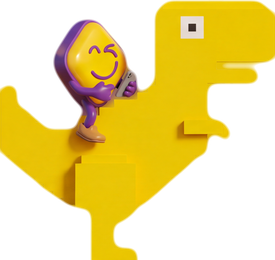
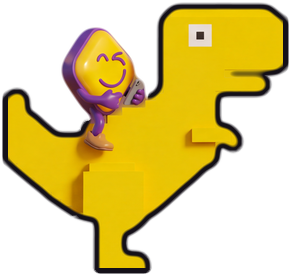
Add jump dust, dino outline, purple Cashi tuk tuk and end screen links
Sand puffs and speed lines on jump and landing, a smooth black outline
around the dino, a purple tuk tuk with Cashi painted on the side, and
end screen buttons for the app download and top up videos (Bankak,
Fawry, OCash), also added to the WhatsApp message. Images carry a
version so browsers fetch the new ones.

Changed region(s): [[0.0, 0.0, 1.0, 1.0], [0.6109, 0.4615, 0.6982, 0.5231]]

diff --git a/index.html b/index.html
@@ -27,7 +27,7 @@
   // World is 300 units tall; the screen scales to fit
   const WORLD_H = 300, MIN_W = 520, MIN_W_UPRIGHT = 360;
   const STREET_H = 236, GROUND_Y = 262, ROAD_BOTTOM = 280;
-  const DINO_H = 96, DINO_W = DINO_H * 275 / 260;
+  const DINO_H = 96, DINO_W = DINO_H * 275 / 260, DINO_PAD = 8;
   const TILE_W = STREET_H * 496 / 480;            // one block of shops
   // The street repeats every 5 blocks. Blocks 1 and 4 have a yellow Cashi Merchant tea stall,
   // and the CashiPlus store stands in the shop line where block 2 meets block 3.
@@ -38,7 +38,17 @@
   const START_SPEED = 260, ACCEL = 7;
   let maxSpeed = 640; // lower on upright phones, which see less of the road ahead
   const REVEAL_TIME = 1.3;
-  const shareText = s => `I scored ${s} on the Cashi dino game. Can you beat me? Cashi is DATA FREE for Zain users. ${location.href.split(/[?#]/)[0]}`;
+  const LINKS = {
+    app: 'https://getcashi.com/en/links',
+    bankak: 'https://youtube.com/shorts/tziwyQtkj5U',
+    fawry: 'https://youtube.com/shorts/59E-KPfbuAE',
+    ocash: 'https://youtube.com/shorts/VMH-85NfBmA'
+  };
+  const shareText = s => [
+    `I scored ${s} on the Cashi dino game. Can you beat me? Cashi is DATA FREE for Zain users. ${location.href.split(/[?#]/)[0]}`,
+    '', `Get the app: ${LINKS.app}`,
+    '', 'How to top up Cashi:', `Bankak: ${LINKS.bankak}`, `Fawry: ${LINKS.fawry}`, `OCash: ${LINKS.ocash}`
+  ].join('\n');
 
   // Older Android browsers lack rounded rectangles on canvas
   if (!CanvasRenderingContext2D.prototype.roundRect) {
@@ -54,8 +64,9 @@
   const ctx = canvas.getContext('2d');
   let scale = 1, viewW = MIN_W, offsetY = 0, dpr = 1, hudX = 14;
 
-  const img = name => { const i = new Image(); i.src = 'src/' + name; return i; };
-  const art = { dino: img('dino.png'), dinoGrey: img('dino_grey.png'), street: img('street.jpg'), merchant: img('street_merchant.jpg'), store: img('store.png') };
+  const ART_VERSION = 2; // raise when an image changes so browsers fetch the new one
+  const img = name => { const i = new Image(); i.src = 'src/' + name + '?v=' + ART_VERSION; return i; };
+  const art = { dino: img('dino.png'), dinoGrey: img('dino_grey.png'), street: img('street.jpg'), merchant: img('street_merchant.jpg'), tuktuk: img('street_tuktuk.jpg'), store: img('store.png') };
   const ready = i => i.complete && i.naturalWidth > 0;
 
   function resize() {
@@ -84,33 +95,52 @@
   const PX = 4;
 
   // ready: grey offline look. reveal: colour sweeps in. playing. over.
-  let state = 'ready', revealStart = 0, overAt = 0, shareBtn = null, plane = null, nextPlaneAt = 3;
-  let speed, distance, score, obstacles, nextGap, streetX, roadX, dino, time = 0, dust;
+  let state = 'ready', revealStart = 0, overAt = 0, buttons = [], topupOpen = false, plane = null, nextPlaneAt = 3;
+  let speed, distance, score, obstacles, nextGap, streetX, roadX, dino, time = 0, dust, puffs, jumpAt = -9;
 
   function reset(firstRun) {
     speed = START_SPEED; distance = 0; score = 0;
-    obstacles = []; nextGap = firstRun ? 760 : 420; roadX = 0; dust = [];
+    obstacles = []; nextGap = firstRun ? 760 : 420; roadX = 0; dust = []; puffs = []; jumpAt = -9; topupOpen = false;
     streetX = TILE_W * STORE_AT - viewW / 2; // CashiPlus store sits mid screen when the colour arrives
     dino = { x: 46, y: GROUND_Y - DINO_H, vy: 0, grounded: true };
   }
   reset(true);
 
-  function shareOnWhatsApp() {
-    const url = 'https://wa.me/?text=' + encodeURIComponent(shareText(score));
-    if (!window.open(url, '_blank')) location.href = url;
+  function openLink(url) {
+    const w = window.open(url, '_blank');
+    if (w) w.opener = null; else location.href = url;
   }
+  const shareOnWhatsApp = () => openLink('https://wa.me/?text=' + encodeURIComponent(shareText(score)));
+  const buttonAt = (wx, wy) => buttons.find(b => wx >= b.x && wx <= b.x + b.w && wy >= b.y && wy <= b.y + b.h);
 
   function tap(wx, wy) {
     if (state === 'ready') { state = 'reveal'; revealStart = time; nextPlaneAt = time + REVEAL_TIME + 1.5; return; }
     if (state === 'over') {
       if (time - overAt < 0.5) return; // a late jump tap should not restart straight away
-      const b = shareBtn;
-      if (b && wx !== undefined && wx >= b.x && wx <= b.x + b.w && wy >= b.y && wy <= b.y + b.h) { shareOnWhatsApp(); return; }
+      if (wx !== undefined && buttonAt(wx, wy)) return; // buttons act on click, so links open in a new tab on phones
+      if (topupOpen) { topupOpen = false; return; }
       reset(false); state = 'playing'; return;
     }
-    if (state === 'playing' && dino.grounded) { dino.vy = -JUMP_V; dino.grounded = false; }
+    if (state === 'playing' && dino.grounded) { dino.vy = -JUMP_V; dino.grounded = false; jumpAt = time; kickUp(10, 1); }
+  }
+
+  // Sand clouds behind the feet on take off (big) and landing (small)
+  function kickUp(n, power) {
+    for (let i = 0; i < n; i++) {
+      const life = 0.35 + Math.random() * 0.25 * power;
+      puffs.push({
+        x: dino.x + DINO_W * (0.15 + Math.random() * 0.3), y: GROUND_Y - 2 - Math.random() * 6,
+        vx: -(15 + Math.random() * 60) * power, vy: -(15 + Math.random() * 45) * power,
+        r: (6 + Math.random() * 6) * (0.6 + power * 0.4), life, max: life
+      });
+    }
   }
   canvas.addEventListener('pointerdown', e => { e.preventDefault(); tap(e.clientX / scale, (e.clientY - offsetY) / scale); });
+  canvas.addEventListener('click', e => {
+    if (state !== 'over' || time - overAt < 0.5) return;
+    const b = buttonAt(e.clientX / scale, (e.clientY - offsetY) / scale);
+    if (b) b.act();
+  });
   window.addEventListener('keydown', e => {
     if (e.code === 'Space' || e.code === 'ArrowUp') { e.preventDefault(); tap(); }
   });
@@ -152,7 +182,12 @@
 
     dino.vy += GRAVITY * dt;
     dino.y += dino.vy * dt;
-    if (dino.y >= GROUND_Y - DINO_H) { dino.y = GROUND_Y - DINO_H; dino.vy = 0; dino.grounded = true; }
+    if (dino.y >= GROUND_Y - DINO_H) {
+      if (!dino.grounded) kickUp(4, 0.5);
+      dino.y = GROUND_Y - DINO_H; dino.vy = 0; dino.grounded = true;
+    }
+    puffs.forEach(p => { p.x += (p.vx - speed) * dt; p.y += p.vy * dt; p.vx *= 0.94; p.vy *= 0.94; p.life -= dt; });
+    puffs = puffs.filter(p => p.life > 0);
 
     if (dino.grounded && Math.random() < 0.35) dust.push({ x: dino.x + 20, y: GROUND_Y - 4, life: 0.35 });
     dust.forEach(d => { d.x -= move; d.life -= dt; });
@@ -184,9 +219,11 @@
 
   // Purple Cashi sign on the rear side panel of the tuk tuk
   function drawTuktukSign(tileX) {
-    ctx.fillStyle = PURPLE;
-    ctx.beginPath(); ctx.roundRect(tileX + 82, 211, 30, 11, 2); ctx.fill();
-    text('Cashi', tileX + 97, 214, 5.5, 'center', YELLOW, null);
+    // The tuk tuk body is painted purple in the art; the name sits on its side panel
+    ctx.font = font(5);
+    ctx.textAlign = 'center'; ctx.textBaseline = 'top';
+    ctx.fillStyle = OUTLINE; ctx.fillText('Cashi', tileX + 95, 212);
+    ctx.fillStyle = YELLOW; ctx.fillText('Cashi', tileX + 94.5, 211.5);
   }
 
   // Yellow and purple Cashi plane, drawn as a clean illustration with outlines like the street art.
@@ -253,9 +290,10 @@
     for (let i = Math.floor(streetX / TILE_W); i * TILE_W - streetX < viewW; i++) {
       const x = i * TILE_W - streetX;
       const merchant = MERCHANT_BLOCKS.includes(wrap(i, CYCLE)) && ready(art.merchant);
-      ctx.drawImage(merchant ? art.merchant : art.street, Math.floor(x), 0, Math.ceil(TILE_W) + 1, STREET_H);
+      const tuktuk = TUKTUK_BLOCKS.includes(wrap(i, CYCLE)) && ready(art.tuktuk);
+      ctx.drawImage(merchant ? art.merchant : tuktuk ? art.tuktuk : art.street, Math.floor(x), 0, Math.ceil(TILE_W) + 1, STREET_H);
       if (merchant) drawMerchantSign(x);
-      if (TUKTUK_BLOCKS.includes(wrap(i, CYCLE))) drawTuktukSign(x);
+      if (tuktuk) drawTuktukSign(x);
     }
     if (!ready(art.store)) return;
     for (let k = Math.floor((streetX - STORE_AT * TILE_W) / (CYCLE * TILE_W)); ; k++) {
@@ -305,10 +343,31 @@
     ctx.imageSmoothingEnabled = true;
   }
 
+  function drawJumpFx() {
+    puffs.forEach(p => {
+      const t = 1 - p.life / p.max, r = p.r * (1 + t * 0.8);
+      ctx.globalAlpha = Math.min(1, (p.life / p.max) * 1.6);
+      ctx.fillStyle = '#d9bf8c'; ctx.beginPath(); ctx.arc(p.x, p.y + 1.5, r, 0, Math.PI * 2); ctx.fill();
+      ctx.fillStyle = '#f6ead2'; ctx.beginPath(); ctx.arc(p.x - 0.5, p.y, r * 0.88, 0, Math.PI * 2); ctx.fill();
+    });
+    // Speed lines trail down and back from the feet just after take off
+    const since = time - jumpAt;
+    if (since < 0.35) {
+      ctx.globalAlpha = 0.85 * (1 - since / 0.35);
+      ctx.strokeStyle = '#8a6d43'; ctx.lineWidth = 2; ctx.lineCap = 'round';
+      const fx = dino.x + DINO_W * 0.35, fy = dino.y + DINO_H * 0.92;
+      [[-4, -2, 34], [6, 4, 28], [-14, 6, 22], [-22, -6, 18]].forEach(([dx, dy, len]) => {
+        ctx.beginPath(); ctx.moveTo(fx + dx, fy + dy); ctx.lineTo(fx + dx - len * 0.8, fy + dy + len * 0.6); ctx.stroke();
+      });
+    }
+    ctx.globalAlpha = 1;
+  }
+
   function drawDino(image) {
     if (!ready(image)) return;
     const bob = dino.grounded && state === 'playing' ? (Math.floor(time * 10) % 2) * -3 : 0;
-    ctx.drawImage(image, dino.x, dino.y + bob, DINO_W, DINO_H);
+    const pad = DINO_PAD * DINO_H / 260; // the outline sits in a margin around the body
+    ctx.drawImage(image, dino.x - pad, dino.y + bob - pad, DINO_W + 2 * pad, DINO_H + 2 * pad);
   }
 
   // Jersey 10 draws smaller than its size suggests, so sizes are scaled up here
@@ -332,6 +391,7 @@
     if (plane) drawPlane(plane);
     drawRoad();
     obstacles.forEach(drawCactus);
+    drawJumpFx();
     drawDino(art.dino);
     ctx.fillStyle = '#f3e4c6';
     dust.forEach(d => { const s = 3 + (0.35 - d.life) * 14; ctx.globalAlpha = d.life / 0.35; ctx.fillRect(d.x, d.y - s, s, s); });
@@ -369,6 +429,14 @@
     }
   }
 
+  function button(x, y, w, h, label, size, fill, color, act) {
+    ctx.fillStyle = fill;
+    ctx.beginPath(); ctx.roundRect(x, y, w, h, 8); ctx.fill();
+    ctx.lineWidth = 2; ctx.strokeStyle = PURPLE; ctx.stroke();
+    text(label, x + w / 2, y + (h - size * FONT_SCALE) / 2 + size * 0.35, size, 'center', color, null);
+    buttons.push({ x, y, w, h, act });
+  }
+
   function draw() {
     ctx.setTransform(dpr, 0, 0, dpr, 0, 0);
     ctx.fillStyle = MONO_BG; ctx.fillRect(0, 0, canvas.width, canvas.height);
@@ -399,19 +467,27 @@
 
     if (state === 'over') {
       const blink = Math.floor(time * 2) % 2 === 0;
-      const w = Math.min(viewW - 32, 400), x = (viewW - w) / 2, top = 36, h = 144;
+      const w = Math.min(viewW - 32, 400), x = (viewW - w) / 2, top = 30, h = 178;
       ctx.fillStyle = 'rgba(255,252,245,0.96)';
       ctx.beginPath(); ctx.roundRect(x, top, w, h, 12); ctx.fill();
       ctx.lineWidth = 3; ctx.strokeStyle = PURPLE; ctx.stroke();
-      text('GAME OVER', viewW / 2, top + 16, 16, 'center');
-      text('SCORE: ' + score, viewW / 2, top + 42, 12, 'center');
-      // WhatsApp share button
-      const bw = Math.min(w - 40, 250), bx = (viewW - bw) / 2, by = top + 62, bh = 38;
-      shareBtn = { x: bx, y: by, w: bw, h: bh };
-      ctx.fillStyle = PURPLE;
-      ctx.beginPath(); ctx.roundRect(bx, by, bw, bh, 8); ctx.fill();
-      text('SHARE ON WHATSAPP', viewW / 2, by + 14, 10, 'center', YELLOW, null);
-      text('TAP TO PLAY AGAIN', viewW / 2, top + 116, 10, 'center', blink ? PURPLE : '#b07800');
+      buttons = [];
+      const bw = Math.min(w - 40, 290), bx = (viewW - bw) / 2, half = (bw - 8) / 2;
+      if (topupOpen) {
+        // Pick a bank to watch its top up video
+        text('TOP UP CASHI FROM', viewW / 2, top + 26, 13, 'center');
+        const third = (bw - 16) / 3;
+        [['Bankak', LINKS.bankak], ['Fawry', LINKS.fawry], ['OCash', LINKS.ocash]].forEach(([label, url], i) =>
+          button(bx + i * (third + 8), top + 64, third, 40, label, 10, PURPLE, YELLOW, () => openLink(url)));
+        button(bx + half / 2 + 4, top + 124, half, 28, 'BACK', 8, IVORY, PURPLE, () => { topupOpen = false; });
+      } else {
+        text('GAME OVER', viewW / 2, top + 16, 16, 'center');
+        text('SCORE: ' + score, viewW / 2, top + 42, 12, 'center');
+        button(bx, top + 66, bw, 34, 'SHARE ON WHATSAPP', 10, PURPLE, YELLOW, shareOnWhatsApp);
+        button(bx, top + 108, half, 28, 'GET THE APP', 8, YELLOW, PURPLE, () => openLink(LINKS.app));
+        button(bx + half + 8, top + 108, half, 28, 'HOW TO TOP UP CASHI', 8, YELLOW, PURPLE, () => { topupOpen = true; });
+        text('TAP TO PLAY AGAIN', viewW / 2, top + 148, 10, 'center', blink ? PURPLE : '#b07800');
+      }
     }
   }
 
